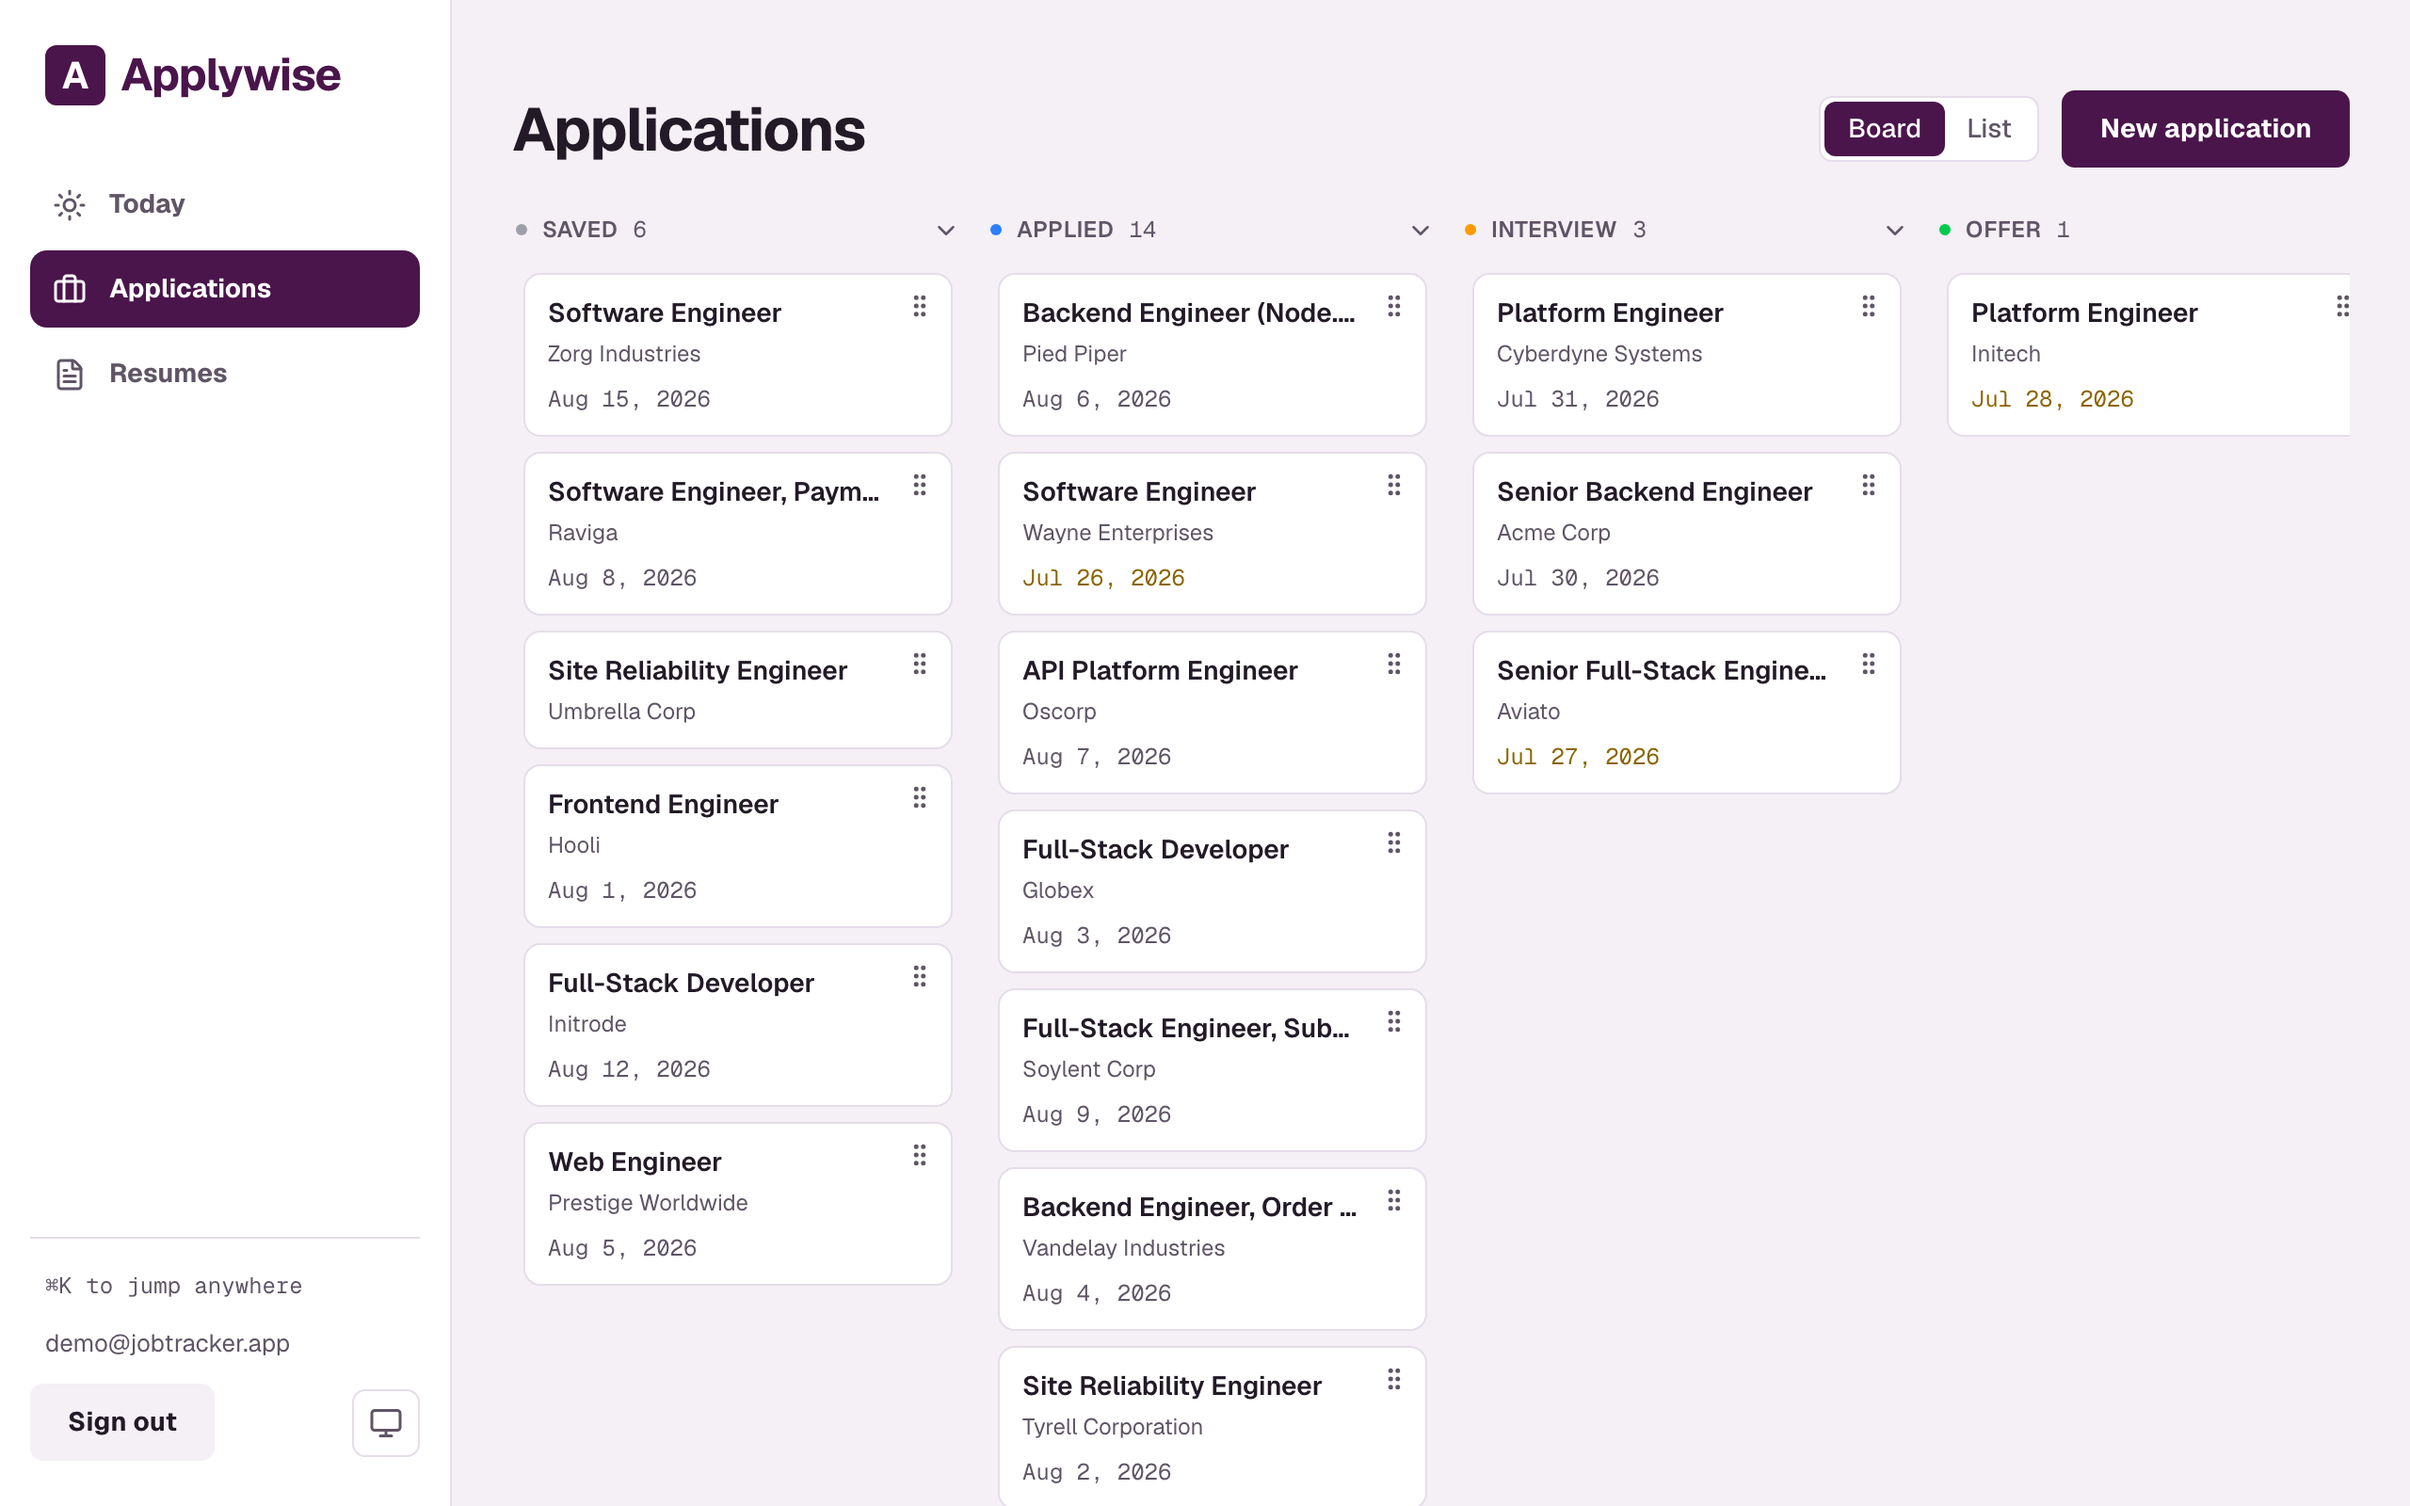
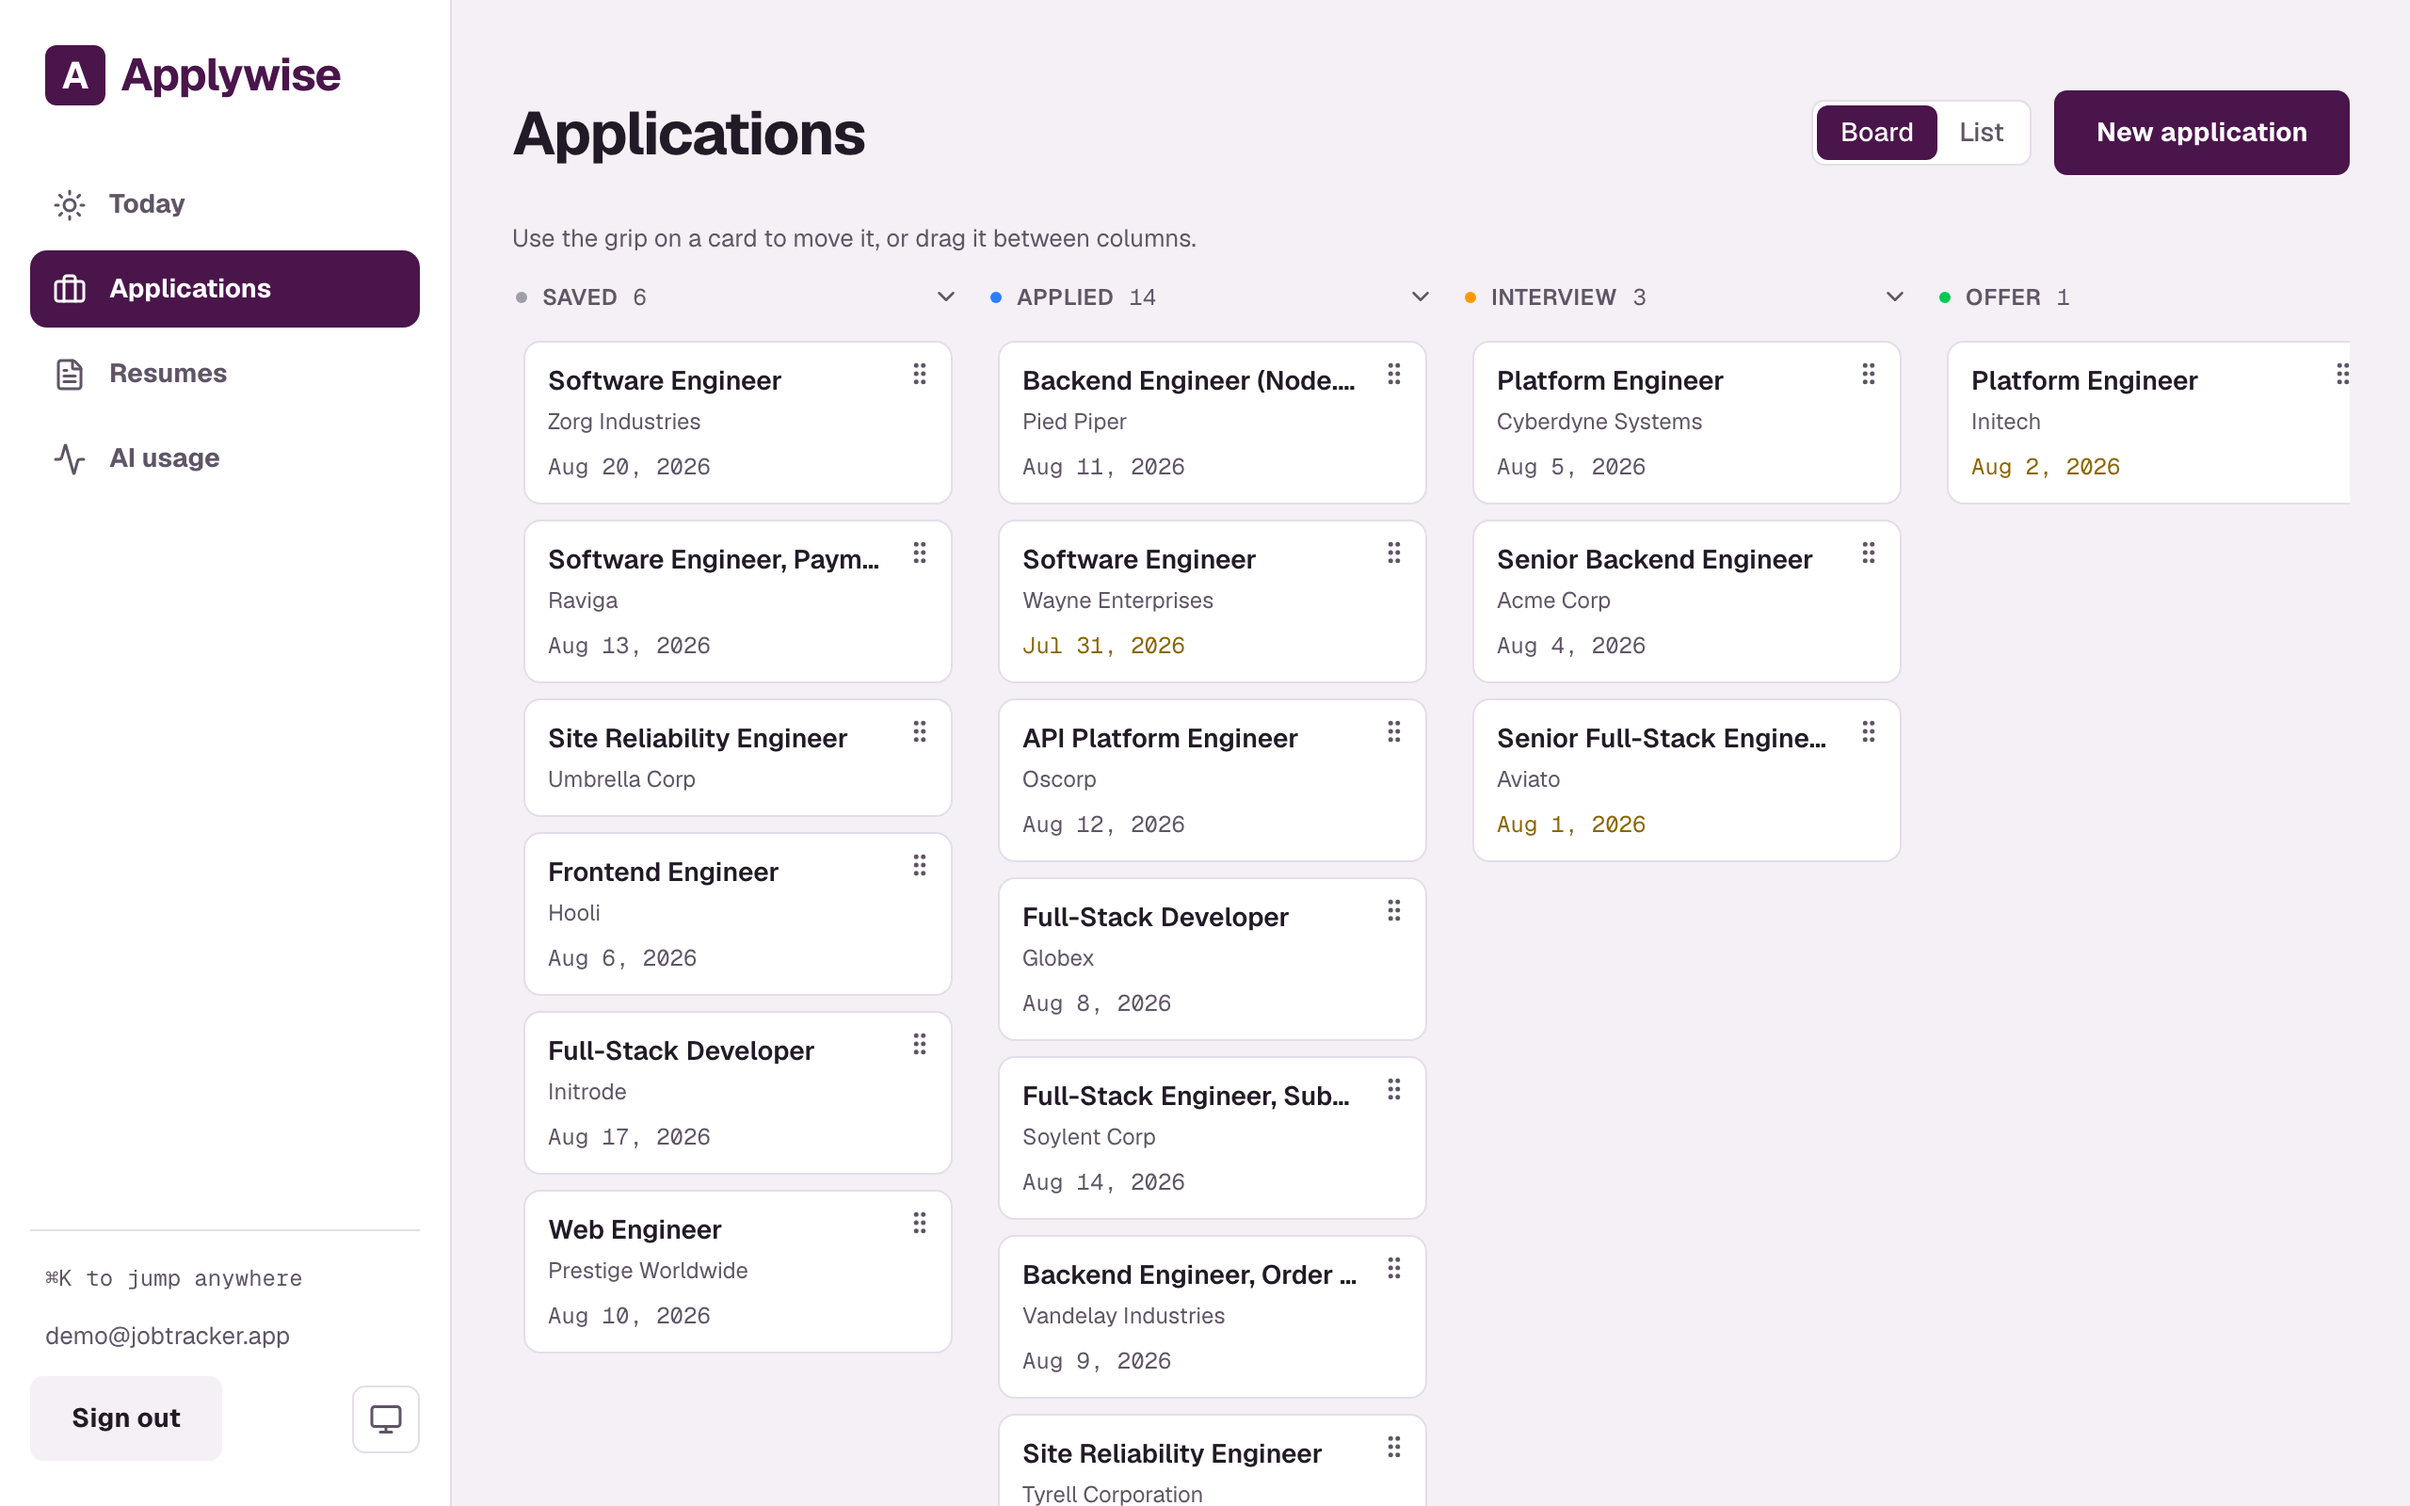
docs: ship the screenshots as WebP, and teach the generator to write them (#37)
The README's screenshots were PNG at 2x. PNG stores flat UI badly at that
scale, and one image carried a third of the weight on its own:

    landing           1227K ->  355K
    the-read           501K ->  197K
    prep-drill         477K ->  188K
    board              416K ->  158K
    today              328K ->  134K
    capture            156K ->   65K
    skills-analysis     87K ->   36K
    resume-fit          72K ->   31K
    ----------------------------------
    total             3.19M -> 1.14M   (-64%)

Full resolution is kept — every file is still 2880px wide, so nothing was
traded away for the size. JPEG would have been smaller still and would have
rung around the text; WebP at q82 leaves it clean.

Converting the committed files alone would not have held. `npm run
screenshots` regenerates them, and Playwright writes only PNG or JPEG, so
the next run would have put the PNGs back and left the README pointing at
files that no longer matched. The generator now converts each shot through
sharp — already a direct dependency — on its way to disk, and the images
here are its actual output rather than a one-off conversion.

`npm run social-preview` reads `today` as its source and inlines it as a
data URI; it follows the same rename, including the media type. Both
scripts were run end to end afterwards, not just edited.

`public/landing/board-{light,dark}.png` stay PNG: they are app assets
served through next/image, which already negotiates a modern format per
[…]

diff --git a/README.md b/README.md
@@ -8,7 +8,7 @@
 
 **6 AI features, each with an eval suite · 444 tests + a 6-suite AI eval harness · ~20k lines of strict TypeScript (app, tests, e2e, evals, scripts)**
 
-![The desk: a job posting with required skills highlighted where the resume covers them and underlined in red where it does not, beside the skills analysis and resume-fit panels](docs/screenshots/the-read.png)
+![The desk: a job posting with required skills highlighted where the resume covers them and underlined in red where it does not, beside the skills analysis and resume-fit panels](docs/screenshots/the-read.webp)
 
 *The posting on the left, you on the right. Highlighted where your resume backs the requirement up; underlined in red where it does not.*
 
@@ -106,27 +106,27 @@ Two of the AI features stream — bullet tailoring and the interview prep sheet 
 
 Today opens on an agenda derived from the pipeline — a deadline inside the week, an interview with no prep sheet, a posting saved but never read, an application gone quiet — then the coach brief, then the rates:
 
-![Today, listing what needs doing with the AI coach brief below it](docs/screenshots/today.png)
+![Today, listing what needs doing with the AI coach brief below it](docs/screenshots/today.webp)
 
 The prep sheet is something to practise against, not to read: answer keys stay collapsed, and a drill takes one question at a time and asks you to score yourself:
 
-![The interview drill showing one question with a progress bar and the answer key hidden](docs/screenshots/prep-drill.png)
+![The interview drill showing one question with a progress bar and the answer key hidden](docs/screenshots/prep-drill.webp)
 
 | Skills analysis | Resume fit |
 | --- | --- |
-| ![Required skills highlighted where matched and underlined where missing](docs/screenshots/skills-analysis.png) | ![Resume versions ranked by cosine similarity, bars scaled to the spread of the set](docs/screenshots/resume-fit.png) |
+| ![Required skills highlighted where matched and underlined where missing](docs/screenshots/skills-analysis.webp) | ![Resume versions ranked by cosine similarity, bars scaled to the spread of the set](docs/screenshots/resume-fit.webp) |
 
 Drag a card and the move persists optimistically:
 
-![Kanban board with applications grouped by status](docs/screenshots/board.png)
+![Kanban board with applications grouped by status](docs/screenshots/board.webp)
 
 Capture starts with the posting, not with a grid of empty fields. What the model read stays marked in highlighter until you touch it, and it says so when the posting never stated a field:
 
-![New-application form led by a large job-posting field with a Read the posting button beneath it](docs/screenshots/capture.png)
+![New-application form led by a large job-posting field with a Read the posting button beneath it](docs/screenshots/capture.webp)
 
 The design system in [docs/design.md](docs/design.md), as actually rendered:
 
-![Applywise landing page — hero, the AI features, and the closing call to action](docs/screenshots/landing.png)
+![Applywise landing page — hero, the AI features, and the closing call to action](docs/screenshots/landing.webp)
 
 </details>
 

diff --git a/docs/setup.md b/docs/setup.md
@@ -111,7 +111,7 @@ npm run test:coverage # vitest with per-file coverage thresholds
 npm run eval          # AI eval suites (needs GEMINI_API_KEY)
 npm run screenshots   # regenerate the README screenshots via Playwright
 npm run record-demo   # re-record the streaming GIF (Playwright + ffmpeg, one Gemini call)
-npm run social-preview # rebuild the 1280×640 GitHub social card from today.png
+npm run social-preview # rebuild the 1280×640 GitHub social card from today.webp
 npm run seed          # populate the demo account (server must be running)
 ```
 
